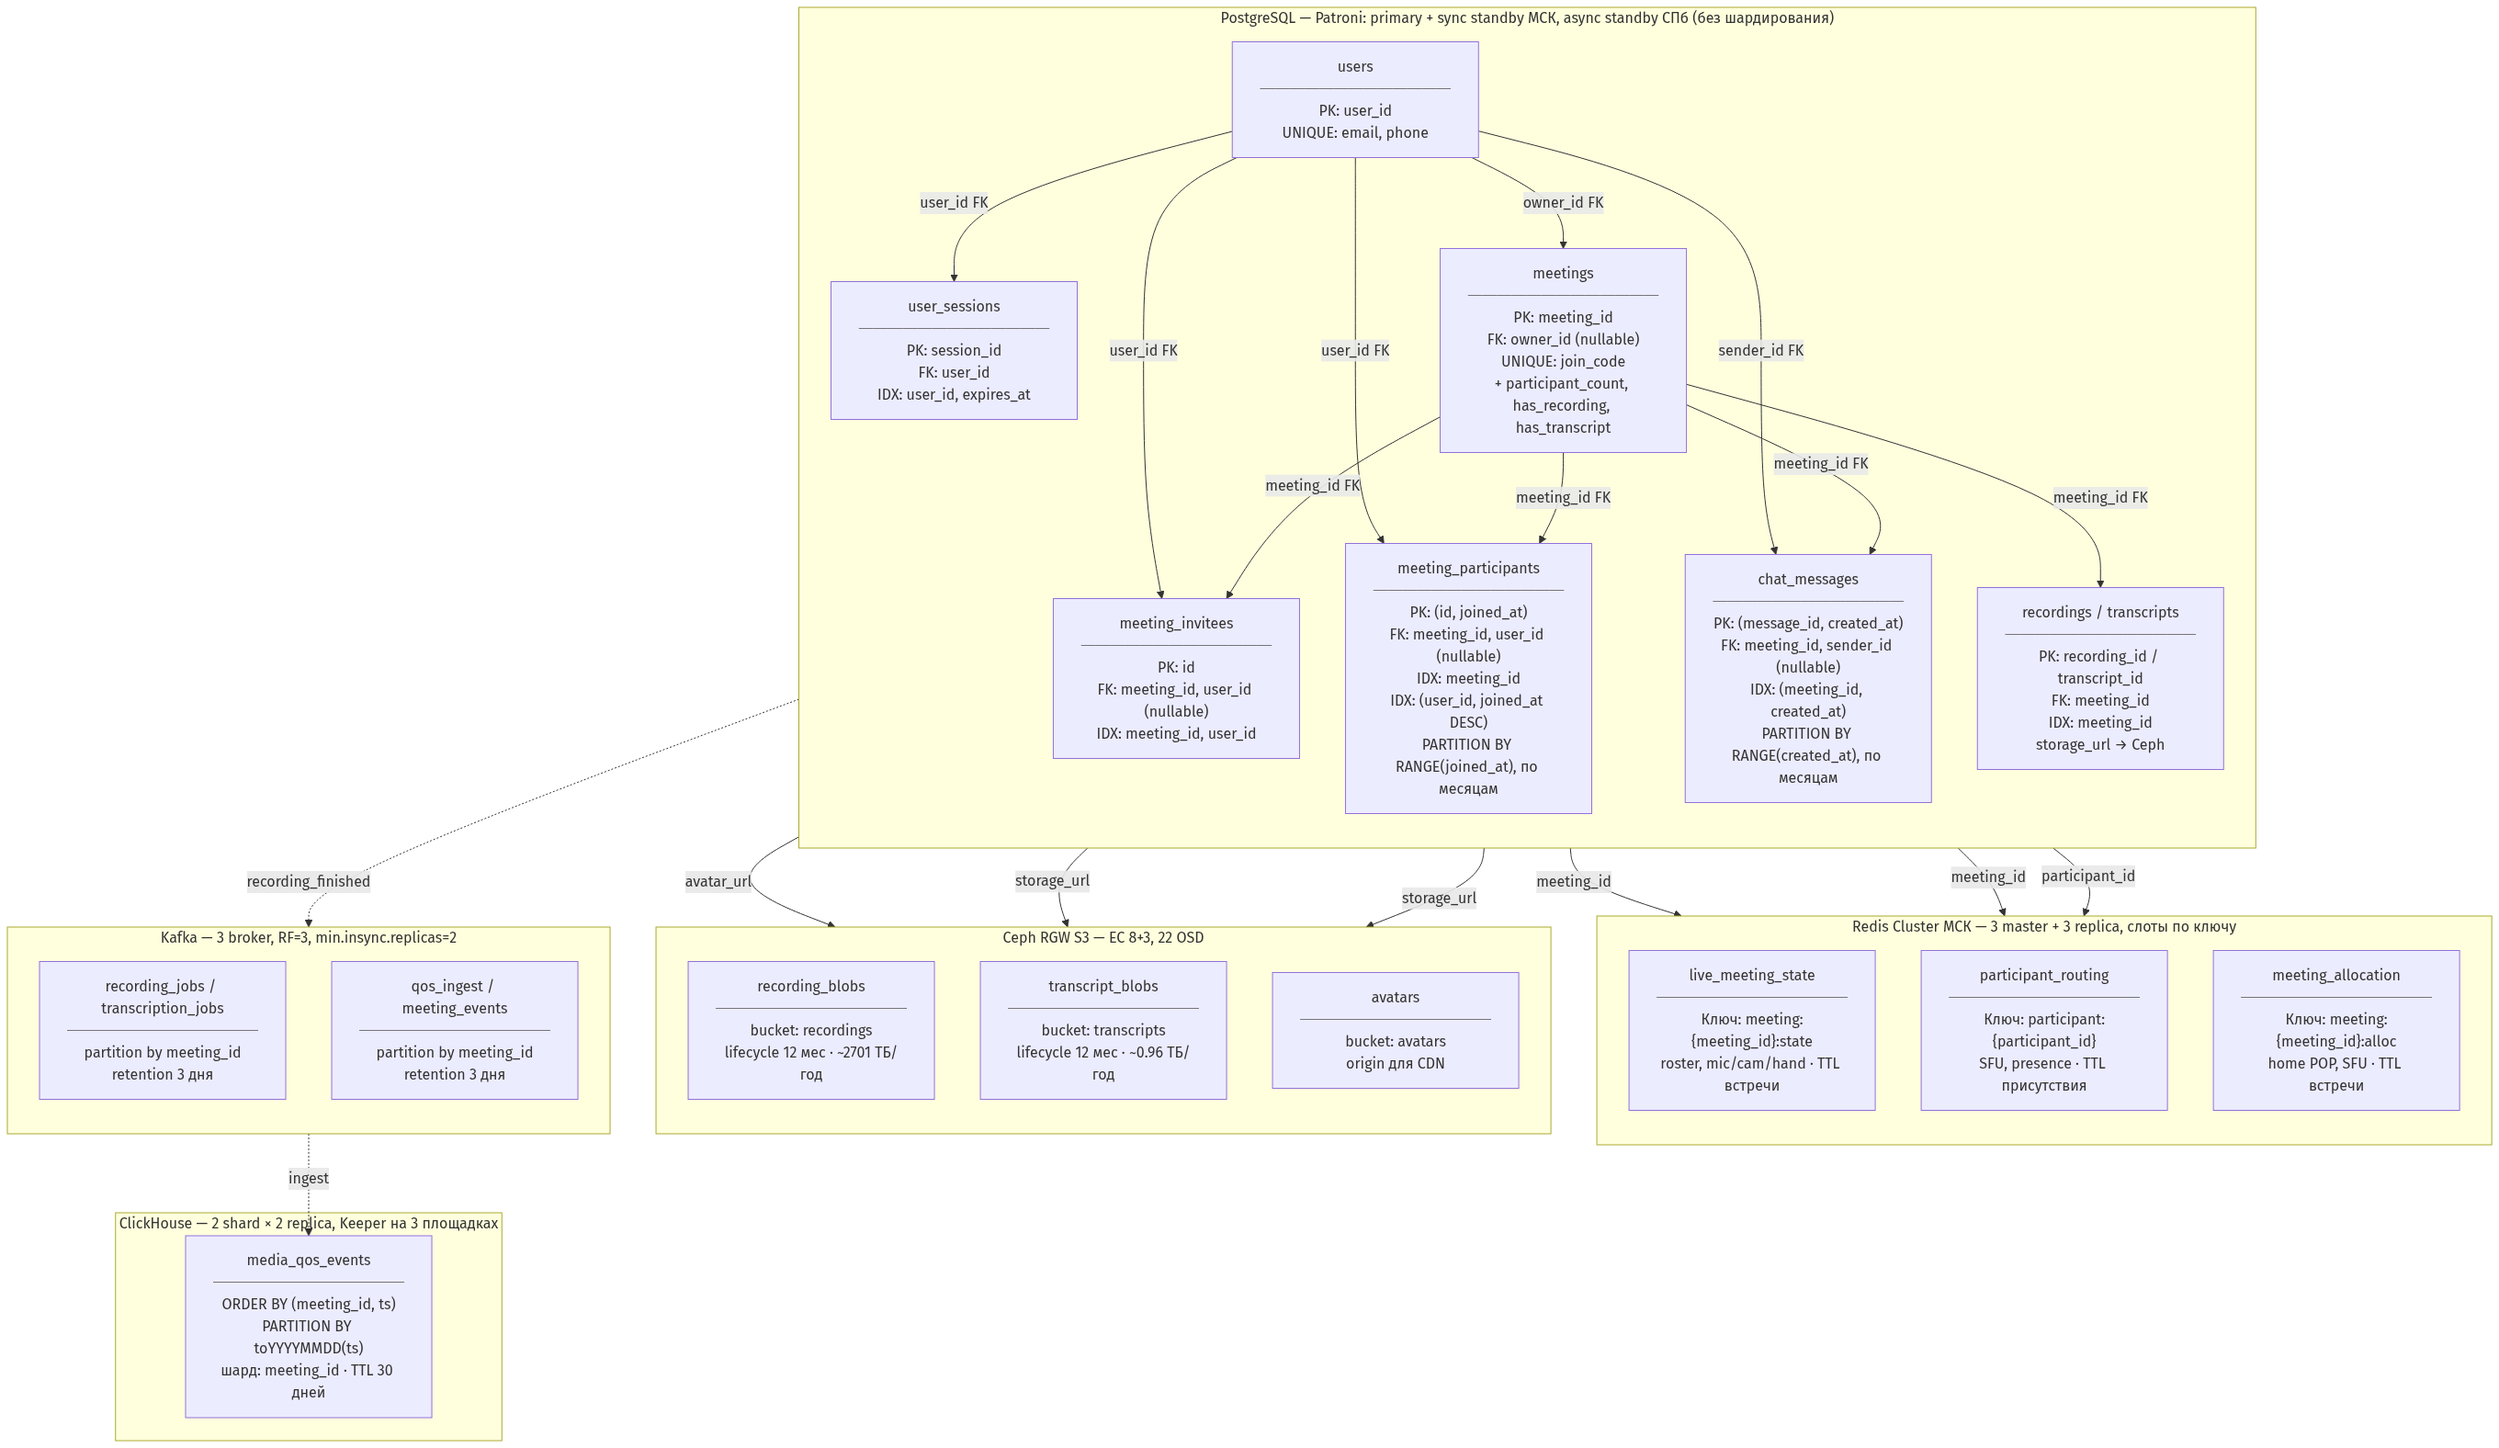
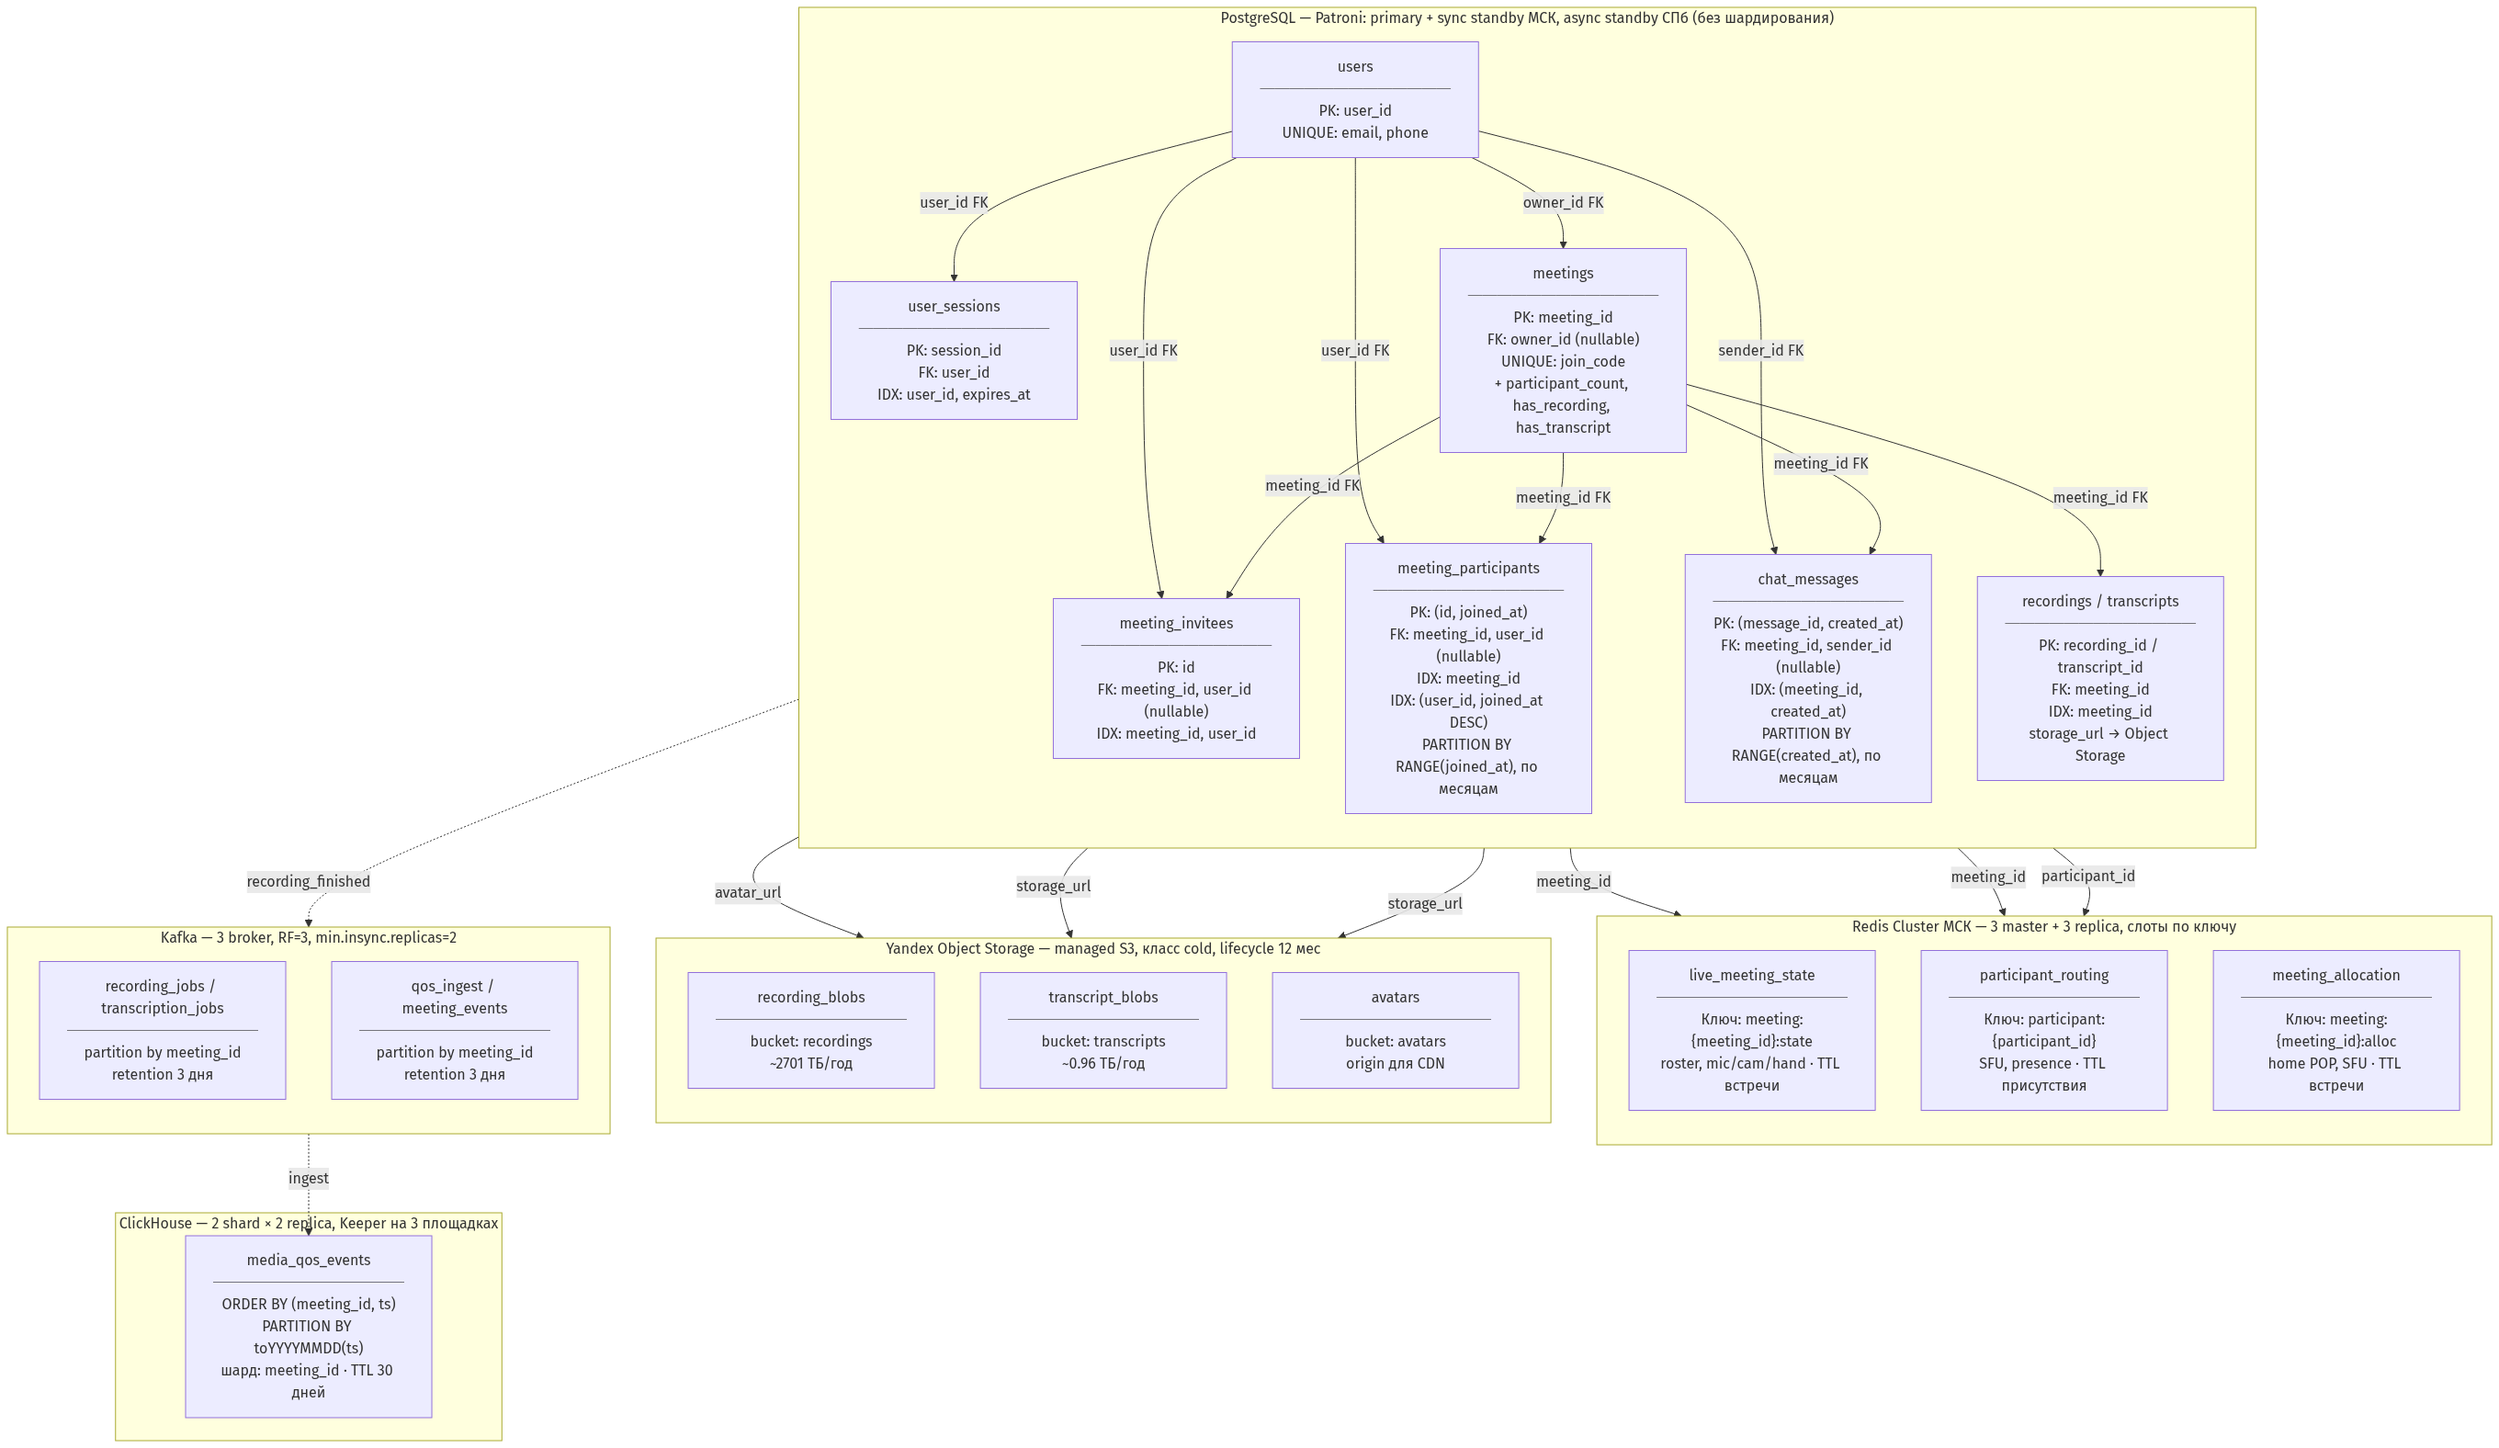
фиксы

Changed region(s): [[0.25, 0.5907, 0.625, 0.8084], [0.7812, 0.3731, 0.9062, 0.5596]]

diff --git a/resources/physical-database.md b/resources/physical-database.md
@@ -10,7 +10,7 @@ flowchart TB
         MI["meeting_invitees\n─────────────\nPK: id\nFK: meeting_id, user_id (nullable)\nIDX: meeting_id, user_id"]
         MP["meeting_participants\n─────────────\nPK: (id, joined_at)\nFK: meeting_id, user_id (nullable)\nIDX: meeting_id\nIDX: (user_id, joined_at DESC)\nPARTITION BY RANGE(joined_at), по месяцам"]
         CM["chat_messages\n─────────────\nPK: (message_id, created_at)\nFK: meeting_id, sender_id (nullable)\nIDX: (meeting_id, created_at)\nPARTITION BY RANGE(created_at), по месяцам"]
-        RT["recordings / transcripts\n─────────────\nPK: recording_id / transcript_id\nFK: meeting_id\nIDX: meeting_id\nstorage_url → Ceph"]
+        RT["recordings / transcripts\n─────────────\nPK: recording_id / transcript_id\nFK: meeting_id\nIDX: meeting_id\nstorage_url → Object Storage"]
     end
 
     subgraph REDIS["Redis Cluster МСК — 3 master + 3 replica, слоты по ключу"]
@@ -24,10 +24,10 @@ flowchart TB
         QE["media_qos_events\n─────────────\nORDER BY (meeting_id, ts)\nPARTITION BY toYYYYMMDD(ts)\nшард: meeting_id · TTL 30 дней"]
     end
 
-    subgraph CEPH["Ceph RGW S3 — EC 8+3, 22 OSD"]
+    subgraph CEPH["Yandex Object Storage — managed S3, класс cold, lifecycle 12 мес"]
         direction TB
-        RB["recording_blobs\n─────────────\nbucket: recordings\nlifecycle 12 мес · ~2701 ТБ/год"]
-        TRB["transcript_blobs\n─────────────\nbucket: transcripts\nlifecycle 12 мес · ~0.96 ТБ/год"]
+        RB["recording_blobs\n─────────────\nbucket: recordings\n~2701 ТБ/год"]
+        TRB["transcript_blobs\n─────────────\nbucket: transcripts\n~0.96 ТБ/год"]
         AV["avatars\n─────────────\nbucket: avatars\norigin для CDN"]
     end
 

diff --git a/resources/gslb-dns.md b/resources/gslb-dns.md
@@ -4,17 +4,17 @@
 flowchart TD
     U["Клиент (Web / iOS / Android)"]
     R["Рекурсивный DNS-резолвер<br/>(+EDNS Client Subnet)"]
-    G["PowerDNS, LUA records<br/>(authoritative, GSLB, МСК + СПб)"]
+    G["Geo-DNS на PowerDNS<br/>(МСК + СПб)"]
     CDN["Yandex Cloud CDN<br/>(static, VOD-записи)"]
 
     subgraph POP["Ближайший POP"]
-        VIP["Вход в POP<br/>L4 IPVS → L7 nginx"]
+        VIP["Вход в POP<br/>L4 → L7 nginx"]
         WS["ws.telemost.ru<br/>(Signaling)"]
         SFU["SFU-ноды (медиаслой)"]
     end
 
     subgraph MSK["МСК (control plane)"]
-        VIPM["Вход в МСК<br/>L4 IPVS → L7 nginx"]
+        VIPM["Вход в МСК<br/>L4 → L7 nginx"]
         API["api.telemost.ru<br/>(Control API)"]
         O["Оркестратор<br/>(Application Based LB, least load)"]
     end

diff --git a/resources/project-scheme.md b/resources/project-scheme.md
@@ -3,10 +3,10 @@
 ```mermaid
 flowchart TD
     C["Клиенты (Web / iOS / Android)"]
-    DNS["PowerDNS, LUA records (GSLB)<br/>МСК + СПб"]
+    DNS["Geo-DNS на PowerDNS<br/>МСК + СПб"]
 
     subgraph EDGE["Вход в POP — внешняя балансировка"]
-        L4["L4 IPVS + keepalived (пара, VRRP)"]
+        L4["L4: пара узлов, keepalived"]
         L7["L7 nginx (N+1)"]
     end
 
@@ -31,8 +31,8 @@ flowchart TD
         PG[("PostgreSQL")]
         RD[("Redis Cluster")]
         CH[("ClickHouse")]
-        OS[("Ceph S3")]
     end
+    OS[("Yandex Object Storage (S3)")]
 
     KAFKA["Kafka — события и задания (МСК)"]
     CDN["Yandex Cloud CDN"]

diff --git a/resources/local-balancing.md b/resources/local-balancing.md
@@ -5,7 +5,7 @@ flowchart TD
     C["Клиенты (Web / iOS / Android)"]
 
     subgraph POP["POP (один из четырёх)"]
-        VIP["VIP · пара L4 IPVS (keepalived, VRRP)<br/>health-check"]
+        VIP["VIP · пара L4-узлов (keepalived)<br/>health-check"]
         subgraph L7P["L7-пул nginx (N+1)"]
             L7A["L7-1 (рабочий)"]
             L7R["L7-2 (резерв)"]
@@ -18,7 +18,7 @@ flowchart TD
     CDN["CDN (static, VOD)"]
 
     C -->|"HTTPS / WSS"| VIP
-    VIP -->|"IPVS"| L7A
+    VIP -->|"L4"| L7A
     VIP -. "failover" .-> L7R
     L7A --> API
     L7A --> WS
